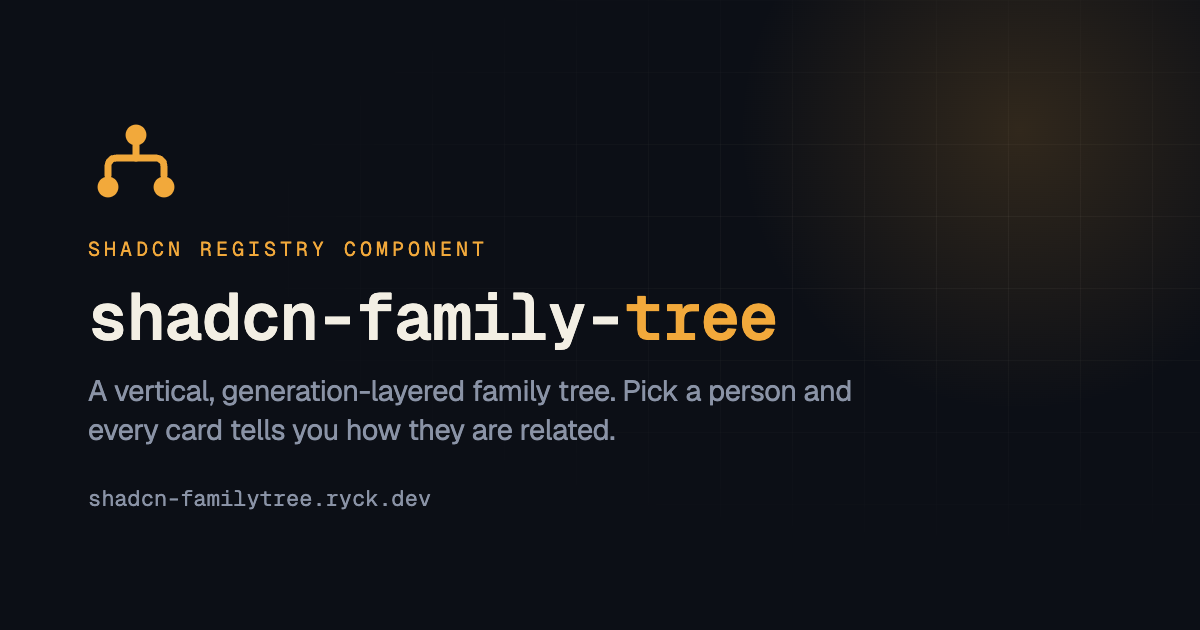
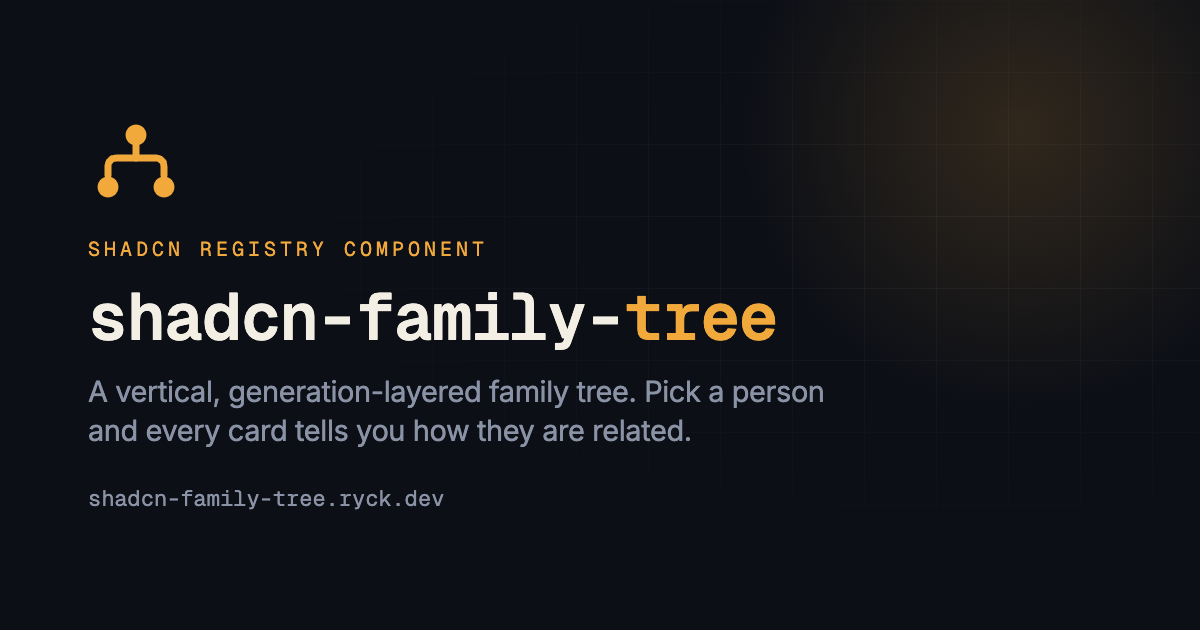
fix: Update URLs to use the correct domain format

Changed region(s): [[0.0617, 0.6032, 0.7092, 0.7238], [0.2158, 0.7841, 0.37, 0.8143]]

diff --git a/apps/web/src/lib/site.ts b/apps/web/src/lib/site.ts
@@ -4,7 +4,7 @@ export const site = {
   /** Split for the wordmark: the tail takes the brand colour. */
   nameLead: "shadcn-family-",
   nameAccent: "tree",
-  url: "https://shadcn-familytree.ryck.dev",
+  url: "https://shadcn-family-tree.ryck.dev",
   github: "https://github.com/ryck/shadcn-familytree",
   /** Namespace a consumer registers to install by name. */
   namespace: "@familytree",

diff --git a/README.md b/README.md
@@ -5,11 +5,11 @@ shadcn `Card`s laid out by generation, joined by relationship connectors. Click
 anyone and the whole tree re-labels itself around them — _father_, _step-mother_,
 _half-brother_, _first cousin once removed_ — all calculated from the graph.
 
-**[shadcn-familytree.ryck.dev](https://shadcn-familytree.ryck.dev)** — docs, a
-live [demo](https://shadcn-familytree.ryck.dev/demo), and the registry.
+**[shadcn-family-tree.ryck.dev](https://shadcn-family-tree.ryck.dev)** — docs, a
+live [demo](https://shadcn-family-tree.ryck.dev/demo), and the registry.
 
 ```bash
-npx shadcn@latest add https://shadcn-familytree.ryck.dev/r/family-tree.json
+npx shadcn@latest add https://shadcn-family-tree.ryck.dev/r/family-tree.json
 ```
 
 Or register the namespace once in your `components.json` and install by name:
@@ -17,7 +17,7 @@ Or register the namespace once in your `components.json` and install by name:
 ```json
 {
   "registries": {
-    "@familytree": "https://shadcn-familytree.ryck.dev/r/{name}.json"
+    "@familytree": "https://shadcn-family-tree.ryck.dev/r/{name}.json"
   }
 }
 ```
